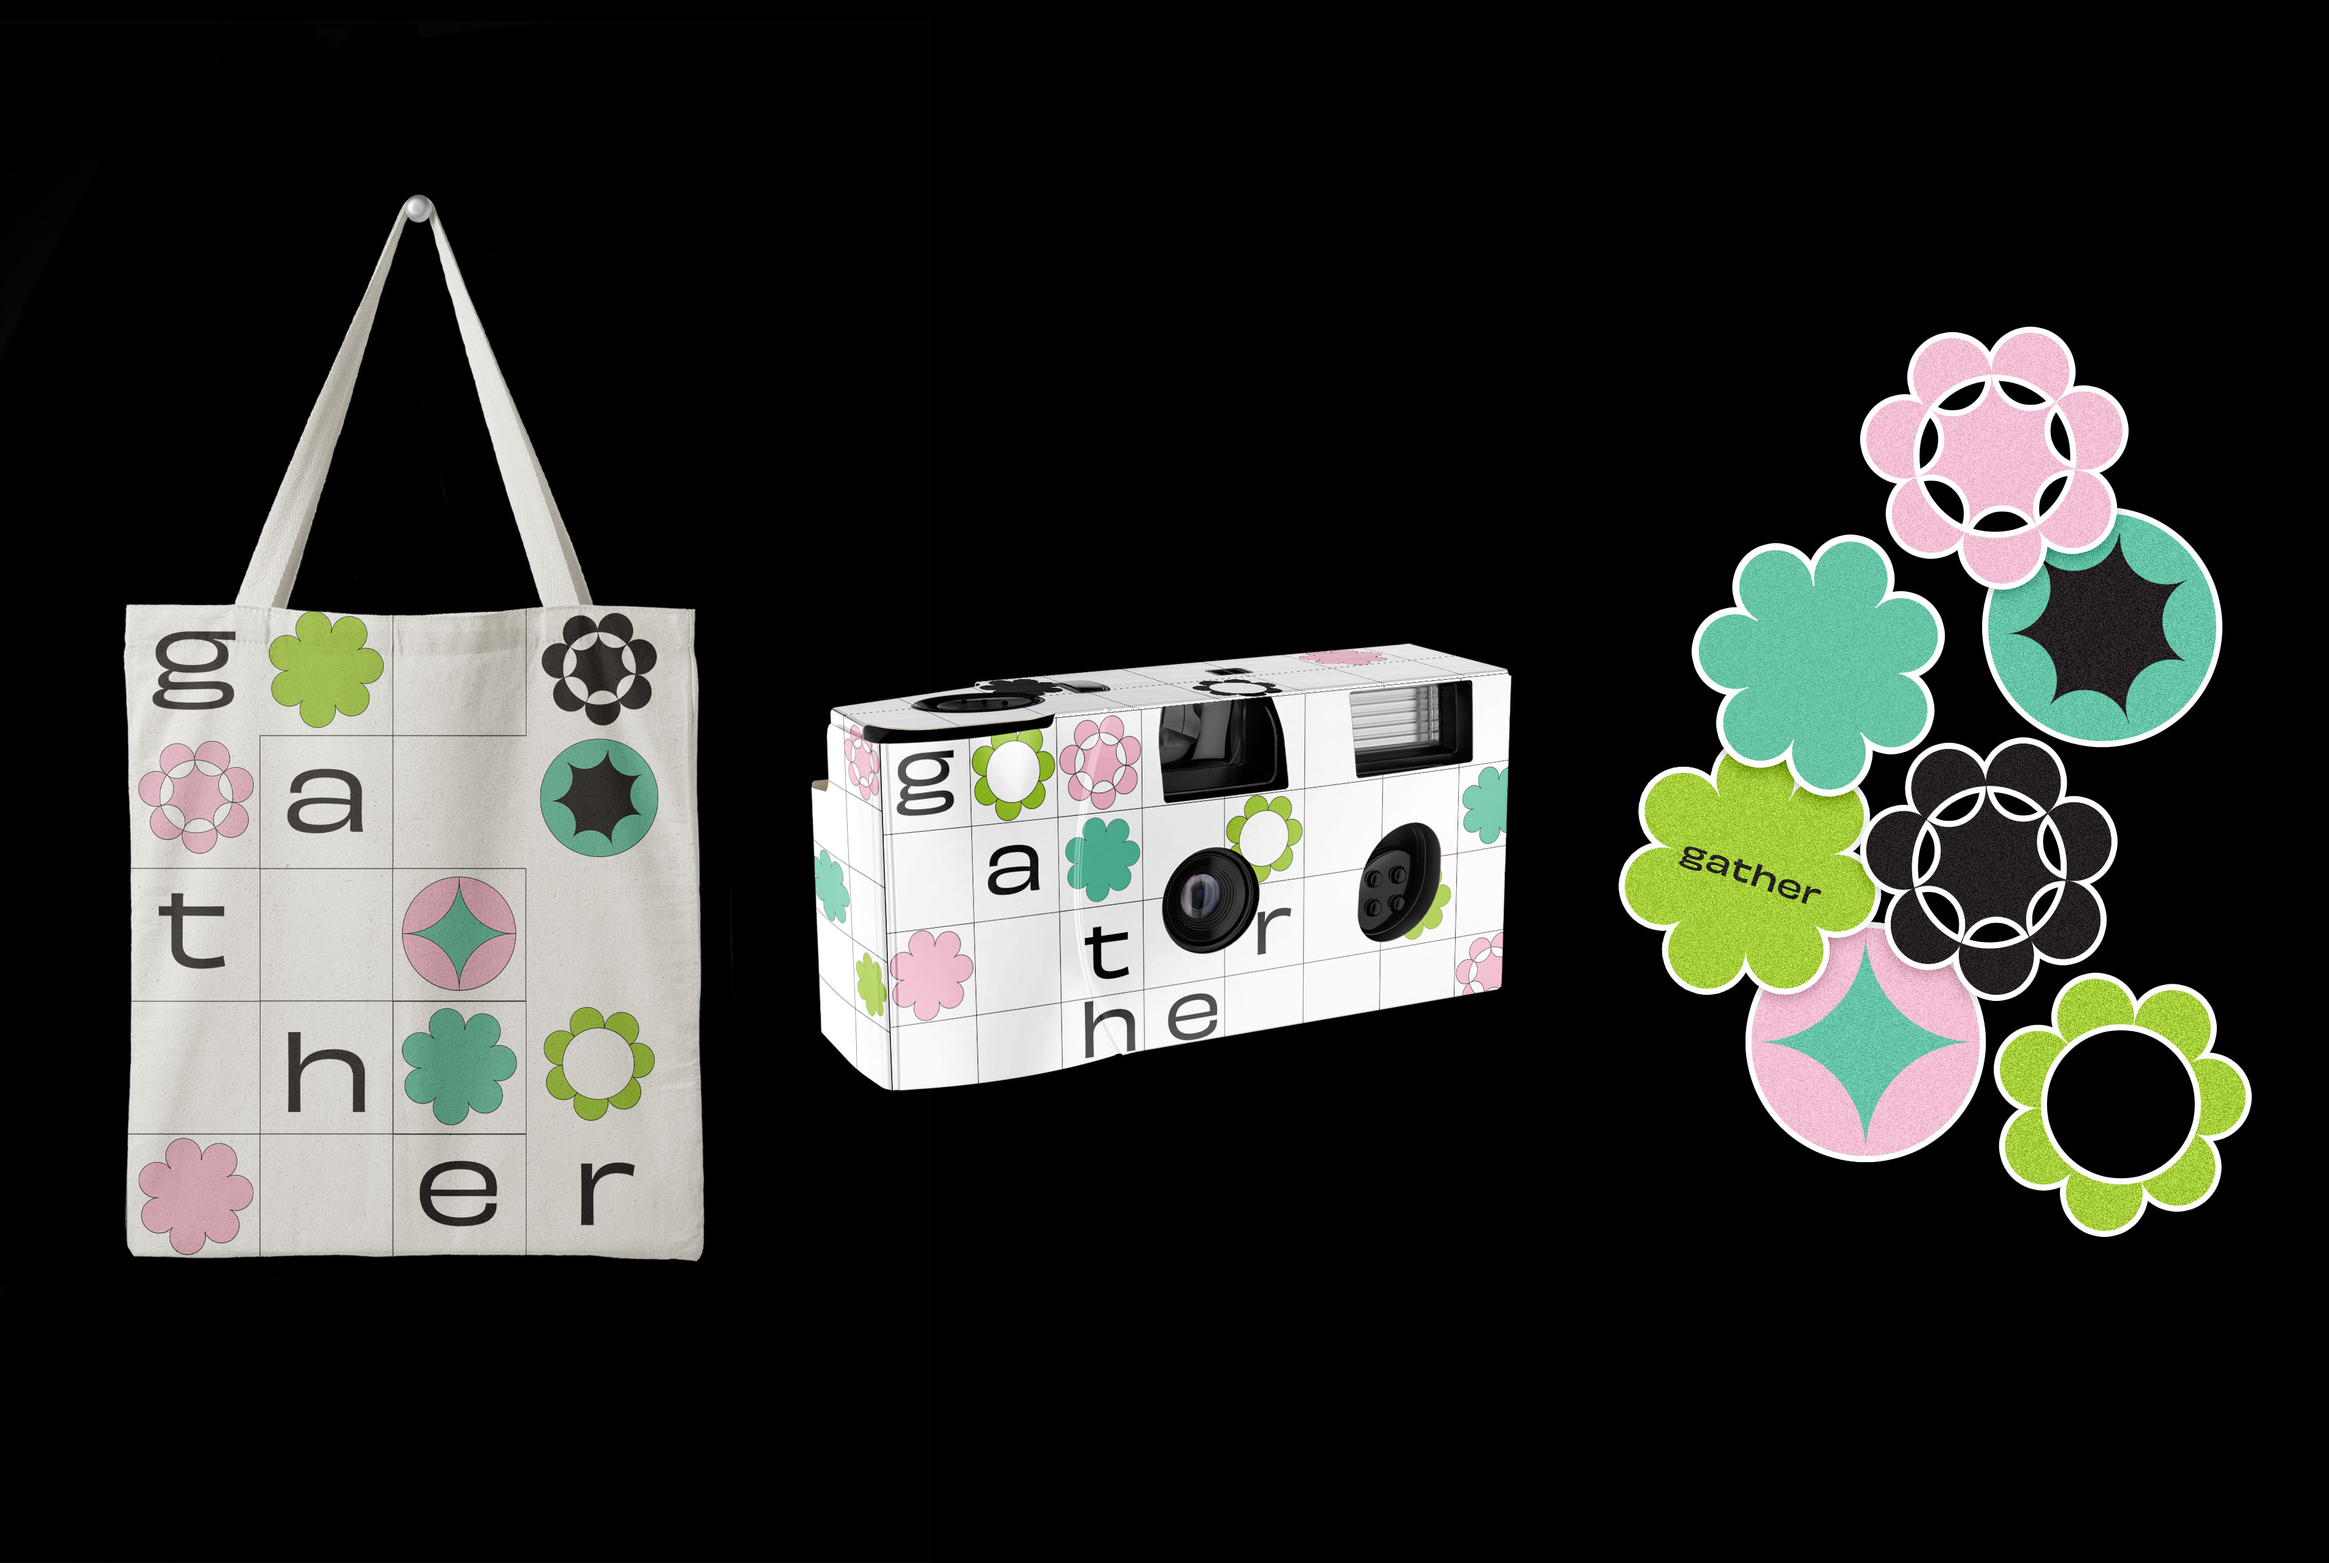
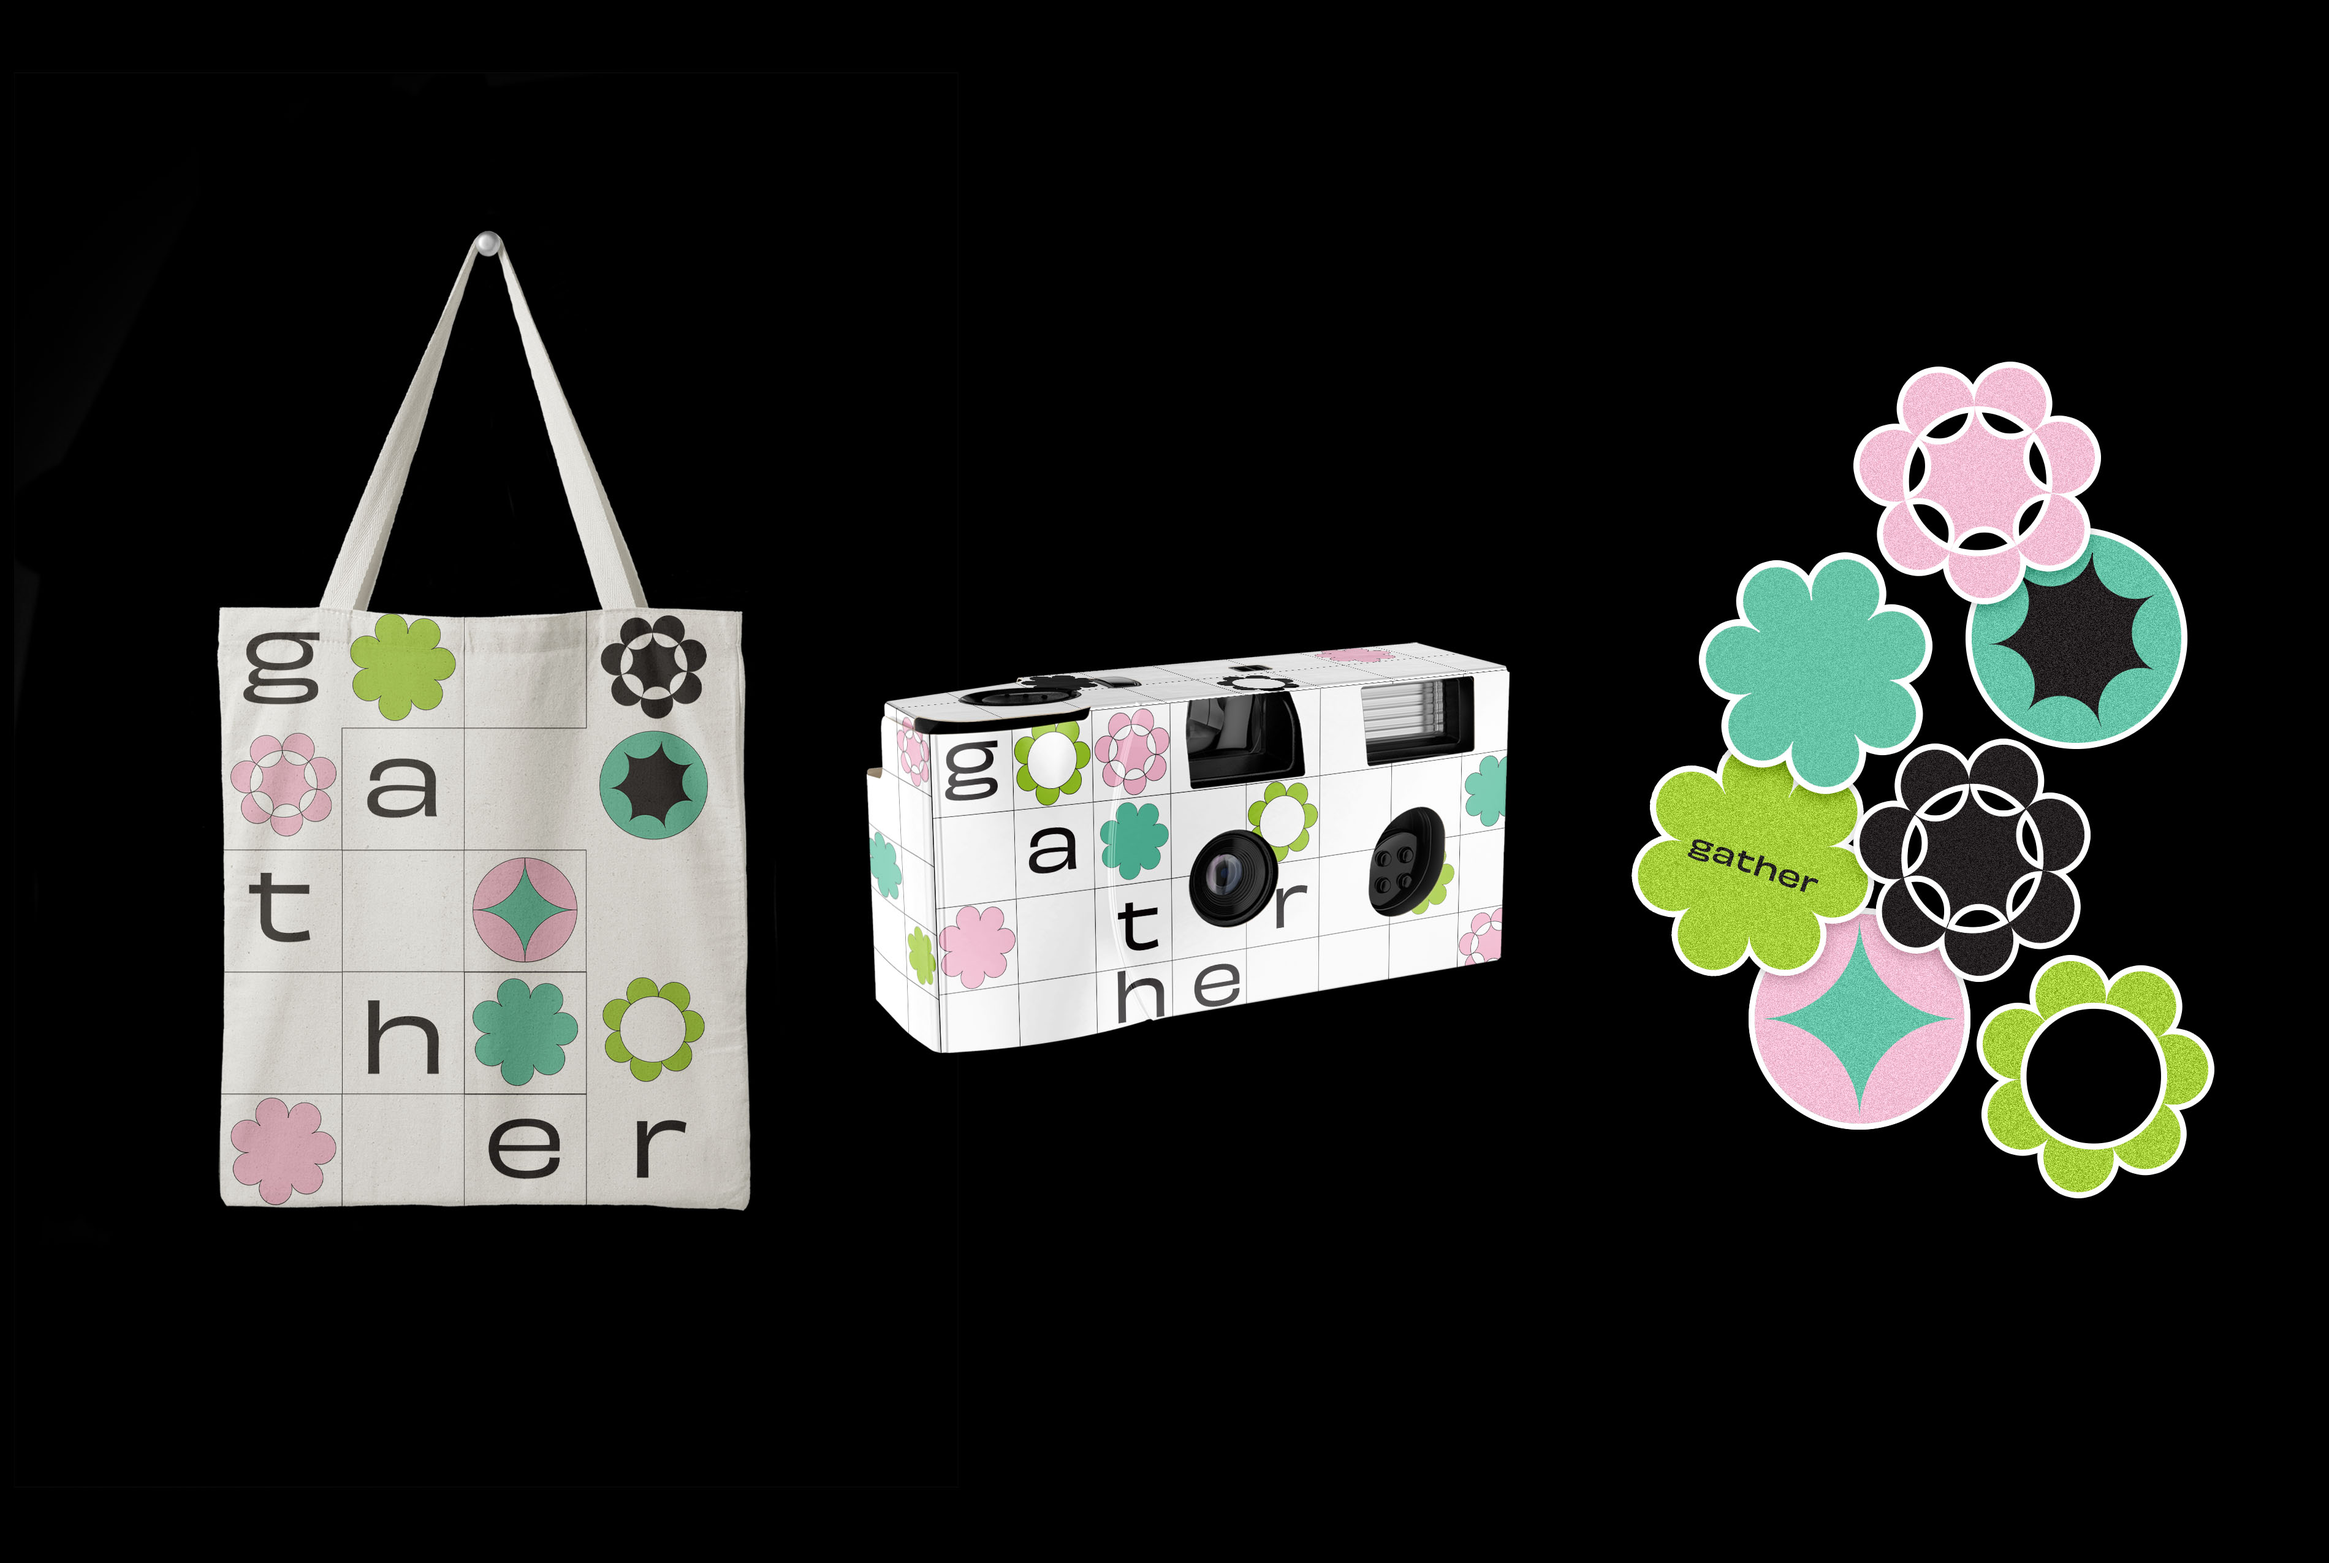
Update Projects “gather-picnic”

Changed region(s): [[0.0311, 0.1239, 0.6521, 0.8055], [0.6832, 0.2169, 0.9626, 0.8055]]

diff --git a/src/pages/projects/gather-picnic.md b/src/pages/projects/gather-picnic.md
@@ -27,7 +27,7 @@ images:
     alt: posters
   - src: /img/infokiosk_v2.jpg
     alt: kiosk
-  - src: /img/picnictote_black_1.3.jpg
+  - src: /img/picnictote_black.jpg
     alt: merch
 vimeoId: ""
 categories:
